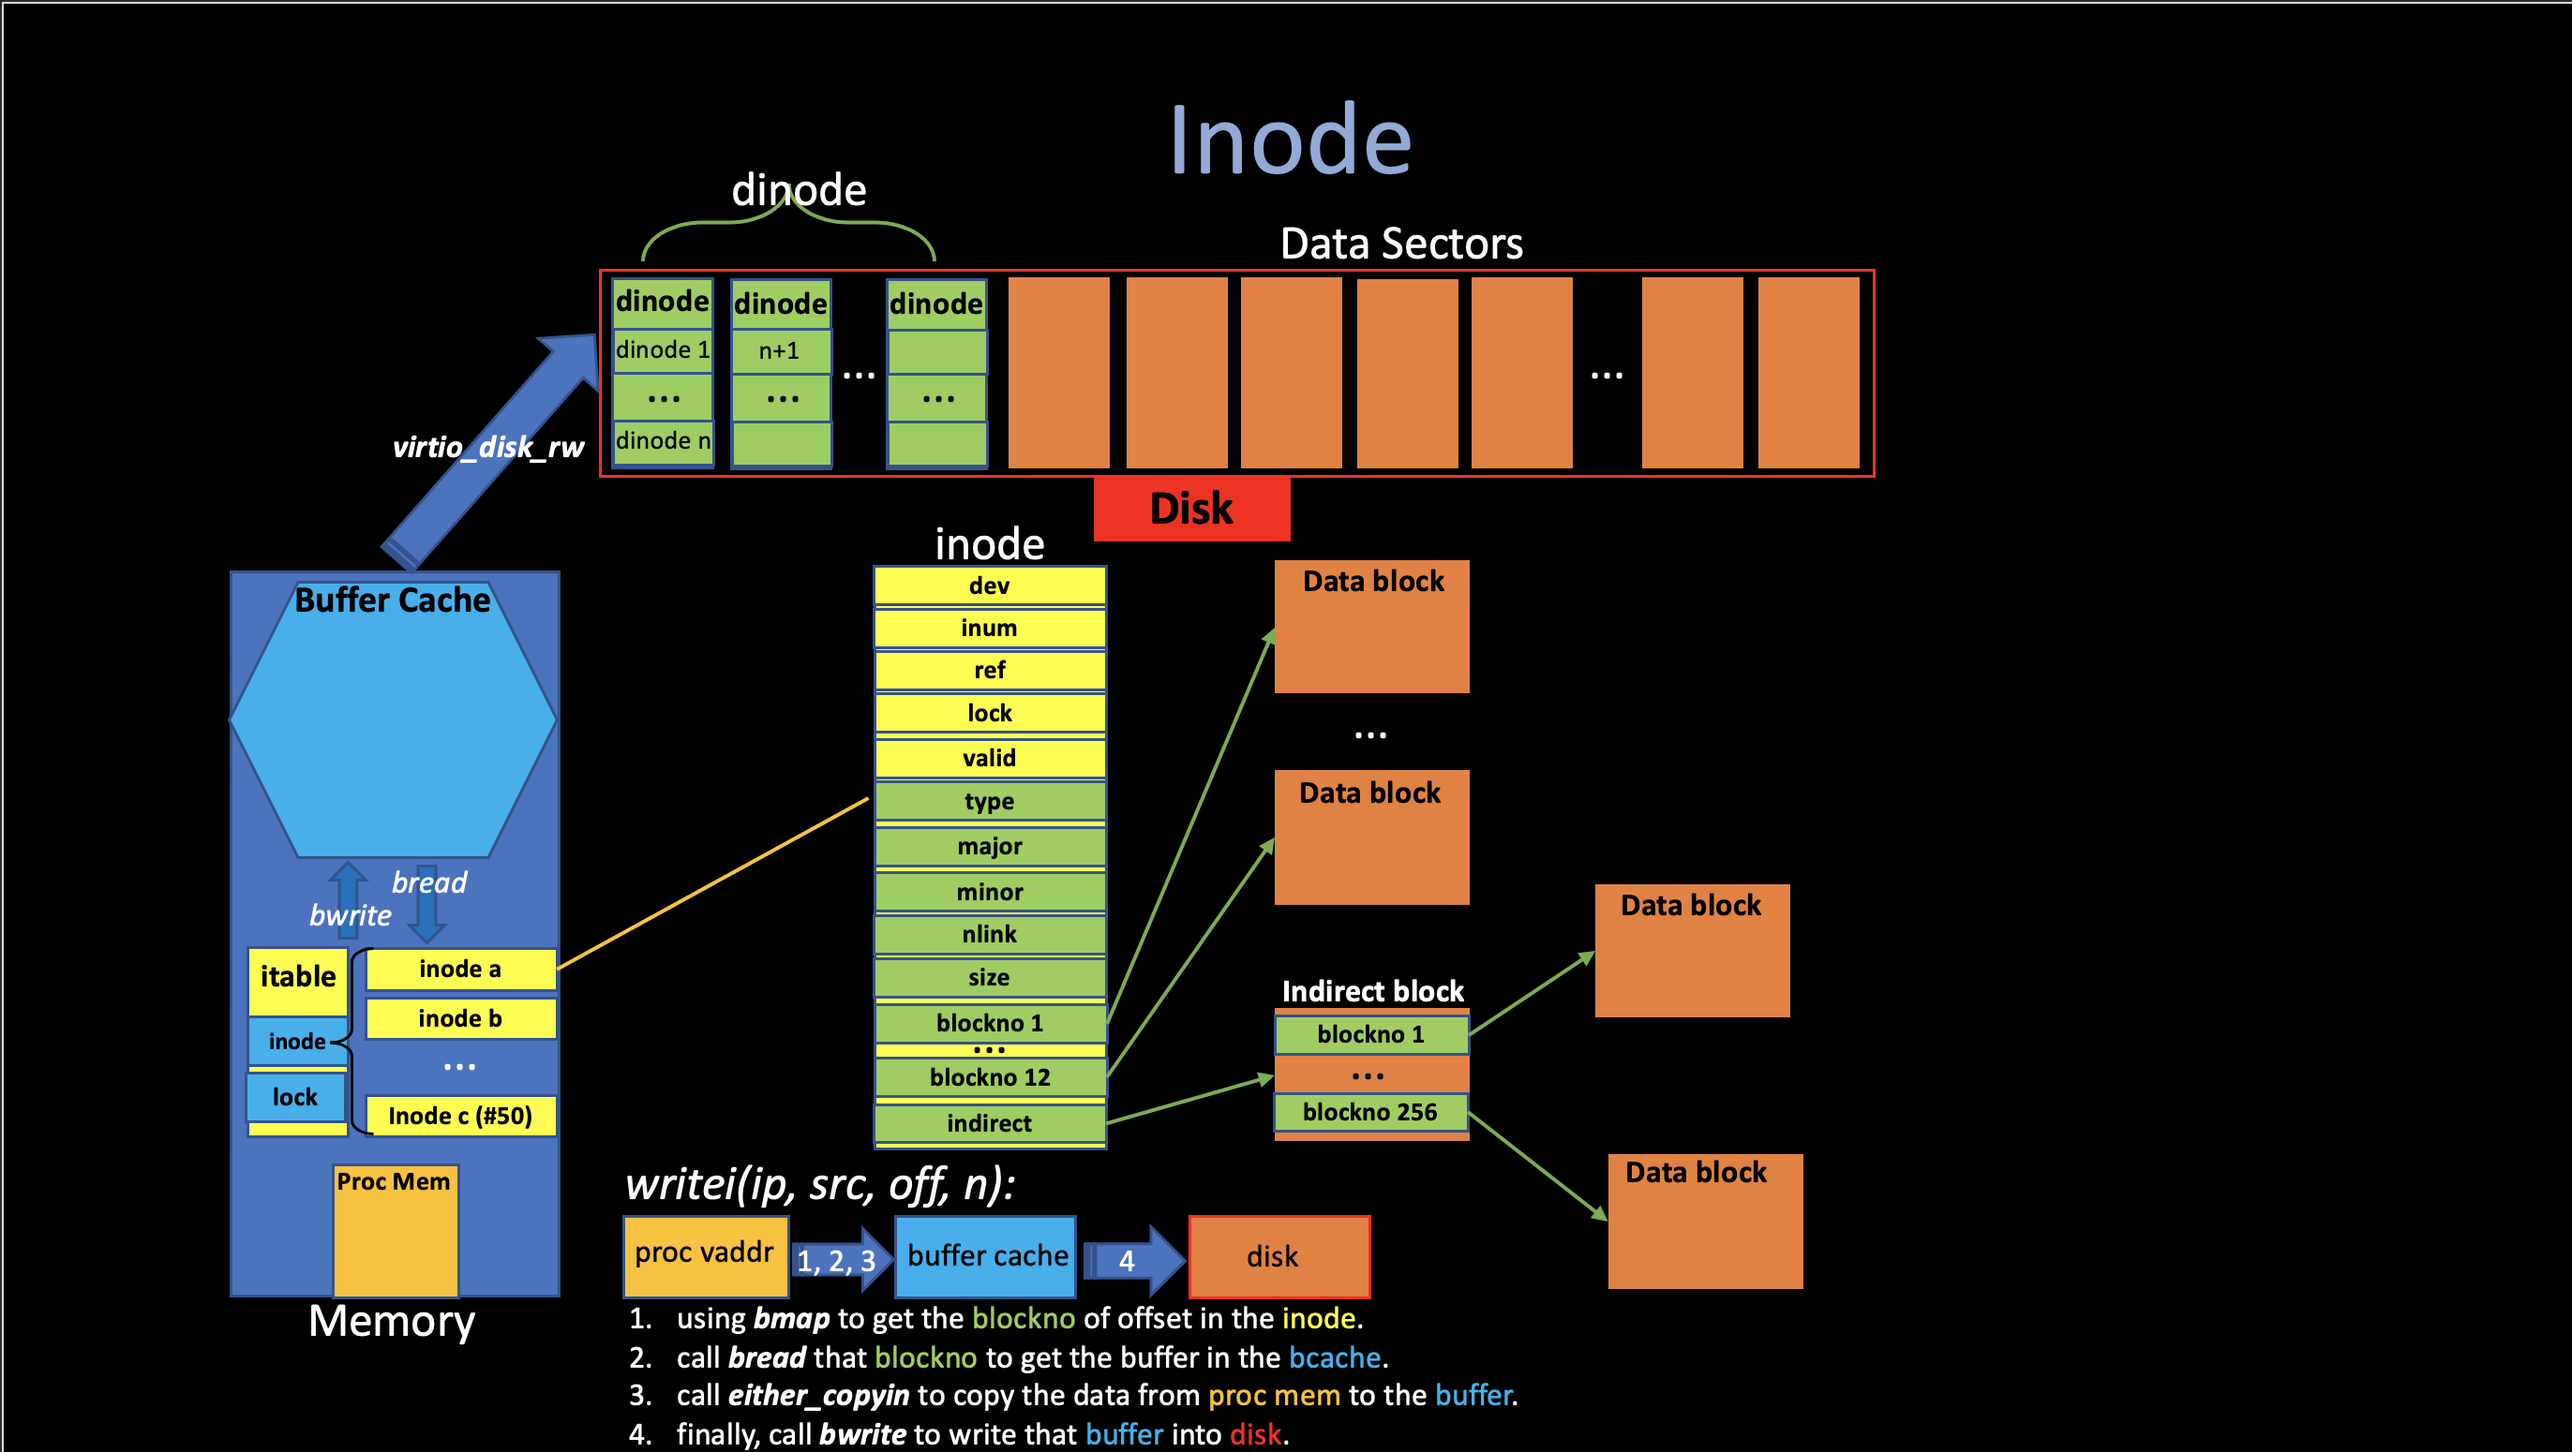
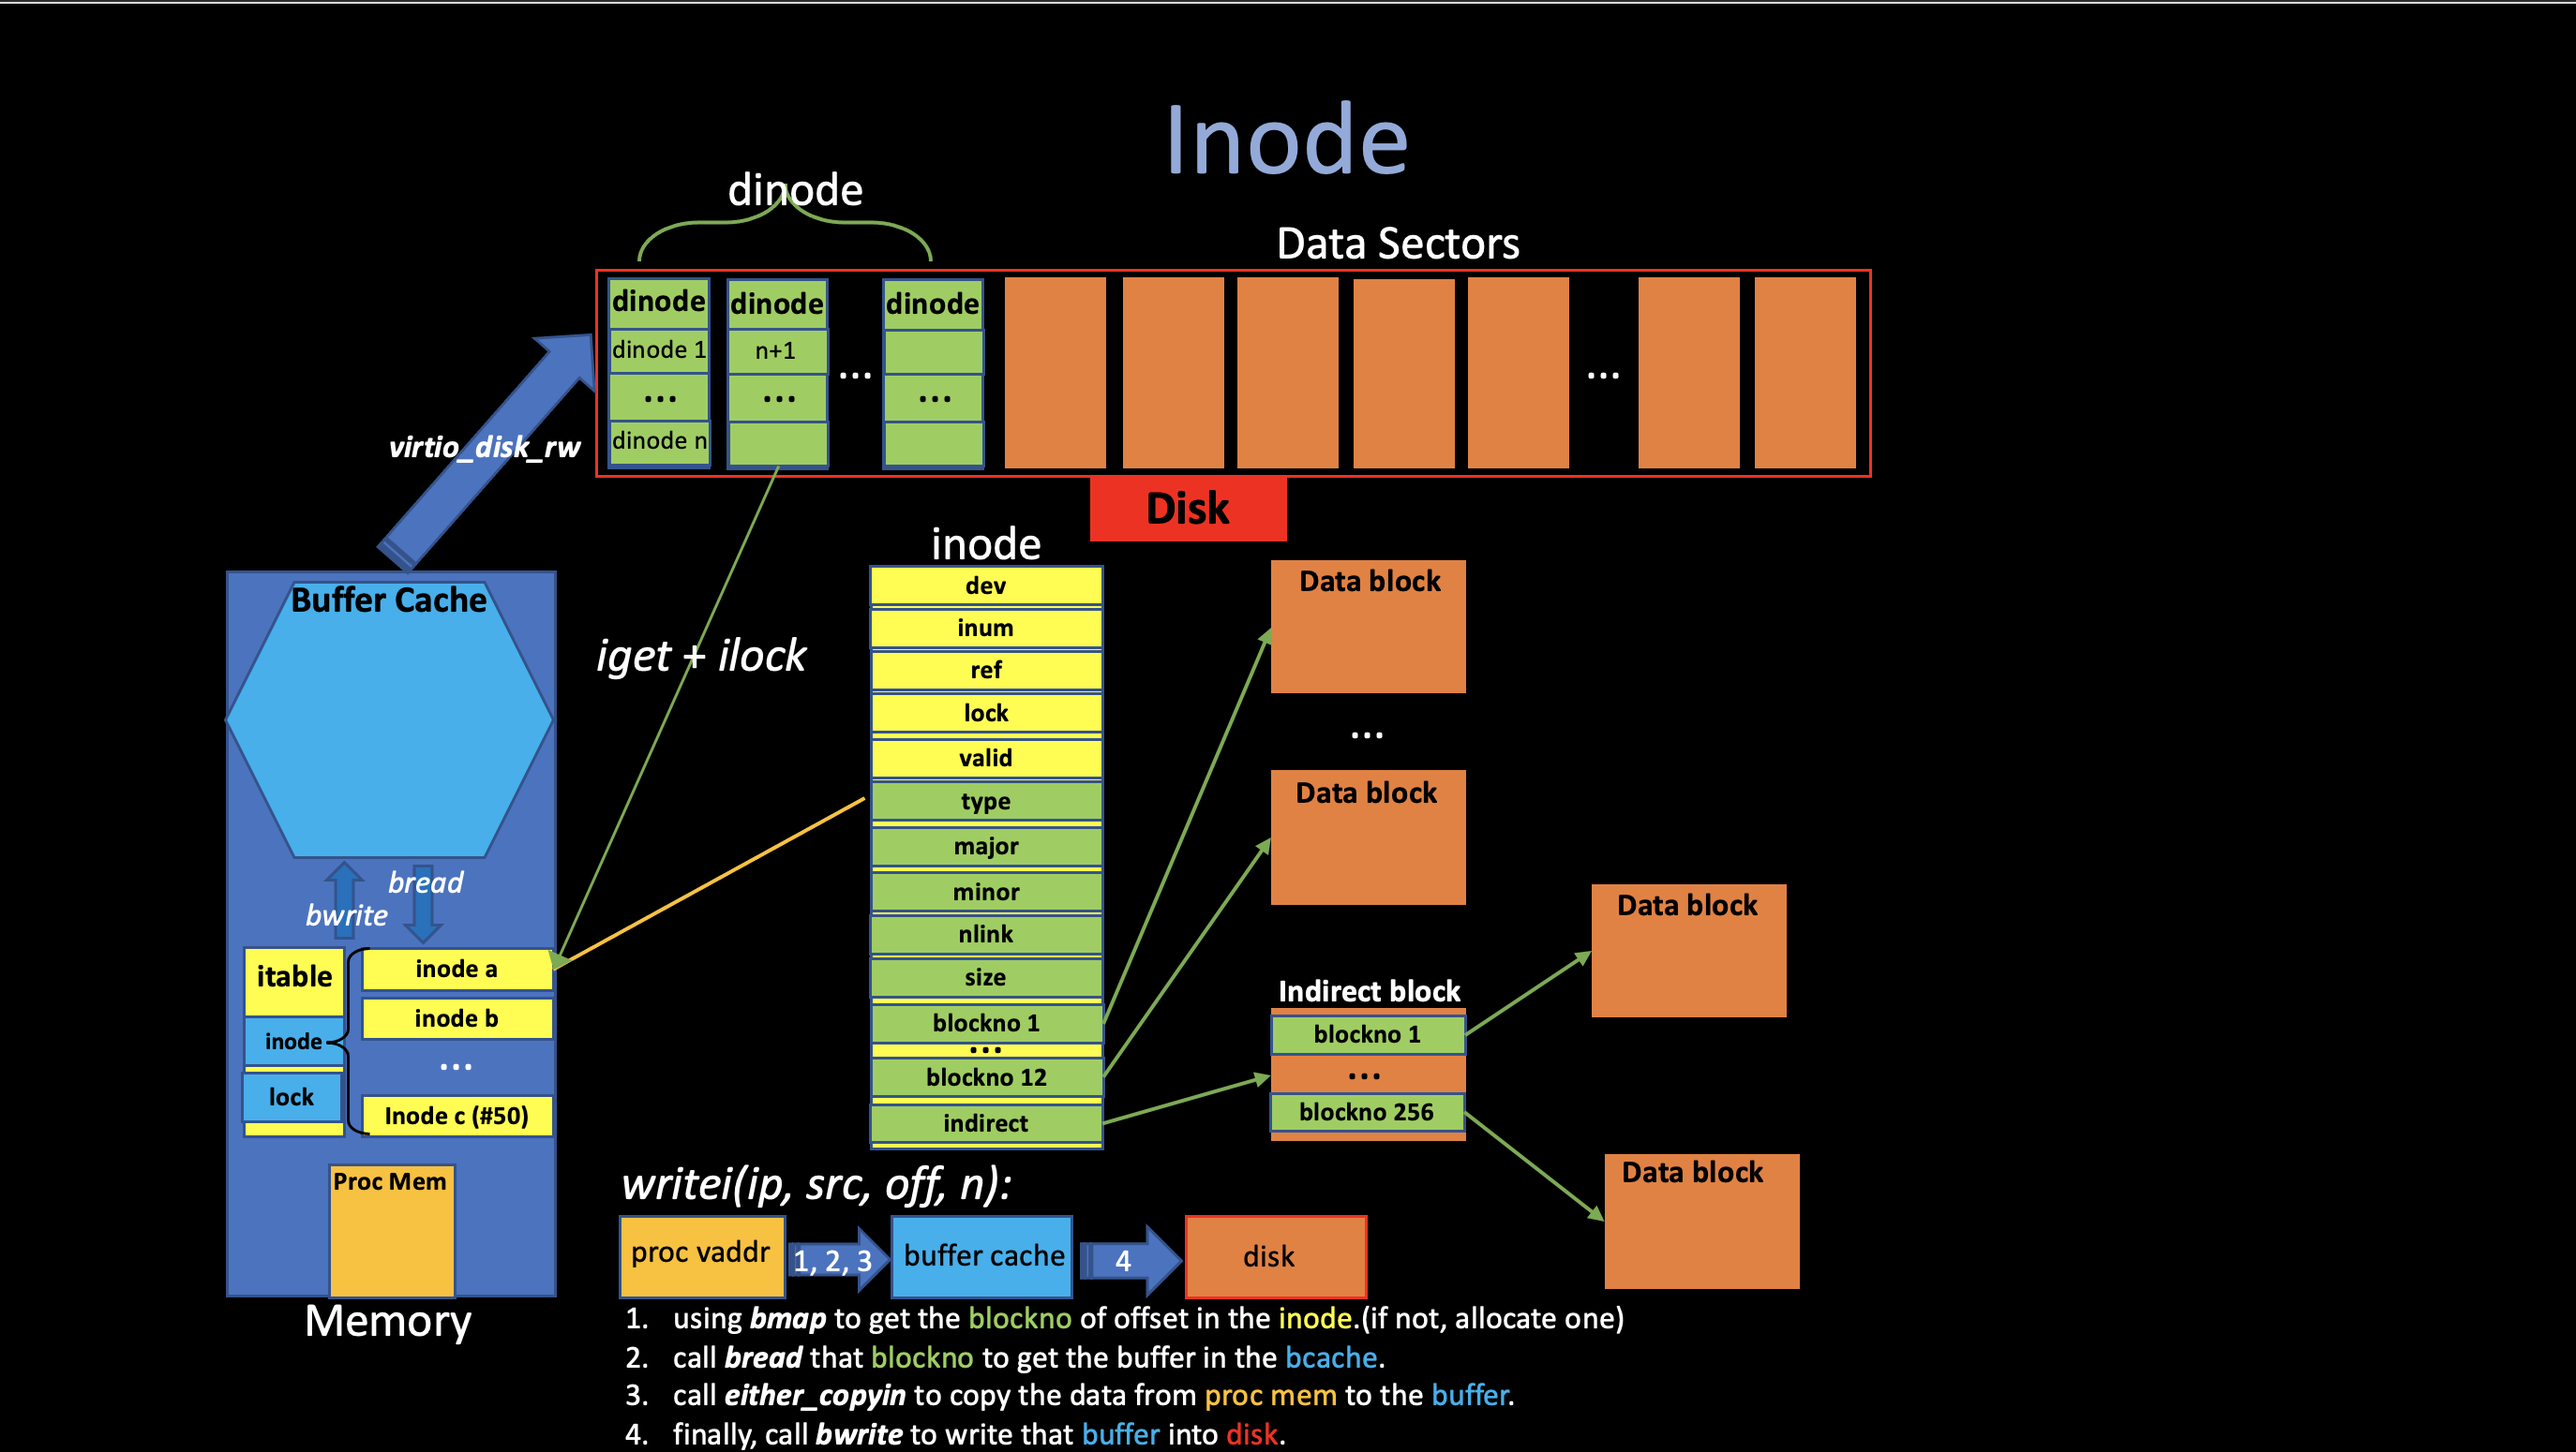
finish the inode part

diff --git a/docs/lectures/7FSii.md b/docs/lectures/7FSii.md
@@ -72,11 +72,10 @@ log write block: 33  // by iupdate: update inode
 
 #### 1. Inode Design
 
-The term *inode* stands for two things in Xv6:
+The term *inode* stands for two things in xv6:
 * **On-disk datastructure** containing a file's size and list of data block numbers
 * **In-memory copy of this disk inode in the inode table** contains extra informantion needed within the kernel.
 
-The on-disk inodes are packed into a contiguous area of disk called the **inode blocks**. Just like block, every inode is in the same size
 
 ##### Disk Inode `dinode`
 ```c
@@ -92,6 +91,17 @@ struct dinode {
 };
 
 ```
+The on-disk inodes are packed into a contiguous area of disk called the **inode blocks**. Just like block, every inode is in the same size, so it is easy, given a number n, to find the nth node on the disk. And this number n, called the inode number of i-number (`inum`).
+
+This on-disk inode structure, **`dinode`**, contains a size and an array of block numbers. (the green part of the following figure). The inode data is found in block listed in the **`dinode`**'s' **`addr`** array, and every elements of this array is a **`blockno`** referring to a block in the disk.
+
+* The first `NDIRECT` blocks of data are listed in the first `NDIRECT` entries in the array, called **direct blocks**.
+    * size of the direct blocks: **`12`** `(NDIRECT)` `*` **`1024`** `(BSIZE) = ` **`12KB`**.   
+* The next `NINDIRECT` blocks of data are listed in the last entry in the **`addrs`** array are address of the **indirect blocks.**
+    * size of the indirect blocks: **`1024 / 4`** `(BSIZE / sizeof(uint) *` **`1024`** `(BSIZE) = ` **`256KB`**.
+* **So the Maximum size of a file in xv6 is `12KB + 256KB = 268KB`**.
+
+![inode](Sources/inode.png)
 
 ##### In-memory Inode `inode`
 ```c
@@ -114,6 +124,11 @@ struct inode {
 };
 ```
 
+The **`inode`** is the in-memory copy of the **`dinode`** on disk with some extra attributes for **File Systems** to manipulate them:
+* **The `inum` record the inode number of that inode in order to read/write them to/from disk.**
+* **`ref` field counts the number of C pointers referring this in-memory inode.**
+
+
 ##### Inode Table `itable`
 ```c
 // kernel/fs.c
@@ -123,10 +138,40 @@ struct {
 } itable;
 ```
 
+**An inode describes a single file or directory, the kernel keeps a table in-use inodes in memory called `itable` to provide a place for synchronization access.** (also cache frequently-used inodes) The kernel stores an inode in memory only if **there are C pointers referring to that inode. (`open`)**.
 
-![inode](Sources/inode.png)
+
+#### 2. Inode Implementation
+There are several api functions in the Inode layer, although xv6 uses very straightforward but non-efficient algorithms in the most part of its implementation, it is still quite hard to understand all of them with a simple description of each of them.
+
+The following figure shows the all procedures related to inode when a user process make a **write** system call.
+
+![syswrite](Sources/syswrite.png)
+
+There are many functions related to the inode, all of them are in **`kernel/fs.c`**. If you are trying to understand the actual implementation, I highly recommend you to read the source code, just like I said before, it is pretty straightforward. There are three functions worth mentioning:**`bmap`**,  **`ilock`** and **`iput`**.
+
+##### `bmap(ip, f->off/BSIZE)`: returns the blockno of specific offset of inode `ip`.
+The function **`bmap`** manage the complexity of blocks representation in **`inode.addr[]`** so that higher-level routines, such as **`readi`** and **`writei`**, do not need to deal with this complexity. **`bmap(ip, bn)`** returns the disk block number of the **`bn`**'th data block for the inode **`ip`**. If **`ip`** does not have such a block yet, **`bmap`** allocates one.
+
+> **Bigfile**: Note that in the current xv6 implementation, the files are limited to *268KB*, this limit comes from the fact that an xv6 inode contains 12 "direct" block number and one "singly-indirect" block number, which refers to a block that holds up to 256 more block numbers. If we want to increase the maximum size of an xv6 file, like adding a "double-indirect" block in each inode, containing 256 addresses of singly-indirect blocks, each of which can contain up to 256 addresses of
+data blocks. The result will be consist of up to (`256*256 + 11 + 256`) **65803** blocks, We can do this by changing this **`bmap`** function to make it support **double indirection**, you can see a implementation here: **[bigfile](https://github.com/Angold-4/6s081labs/pull/6/commits/921a16e0e8276473e5b9f02c85cc541df2ccca0d)**.
 
 
+##### `ilock(ip)`: lock the given inode and reads the inode from disk.
+Typically, the **lock** is used to prevent some harzards come from synchronization access of shared data, which make sure that at any time, only one process that holding the lock can change that the protected data.
+
+But too much locking especially locking for too long may also cause many problems such as **deadlock.** In the **1. buffer cache** part, I said the way to prevent multiple kernel thread use that copy of disk block is everytime when **`bwrite`** wants to write something to the disk, it should always call **`bread`**, and **`bread`** will call **`bget`** to return a locked buffer in the buffer cache, after writes finished, it will call **`brelse`** to release that buffer lock.
+
+And the situation is a little bit different here: If you want to write something to a file (i.e., calling **`file_write`**), you always need to first open that file (`sys_open`) and you cannot hold the lock when open it because you don't know when you gonna write something to it. So when you call **`iget`** in order to get a entry in the global inode table (**`itable`**), you cannot hold the lock of that inode because you don't know when to release it. If you keep holding it, it may causes **deadlock** and **races** when you do some operations like directory lookup, etc.
+
+The xv6 prevent this from happening by seperating the **`ilock`** and **`iget`** so that the system call can get **a long-term reference to an inode (as for an open file), and only lock it for a short period when needed (e.g., in `read()`)**. And **`iget`** only increments the `ip->ref` so that the inode stays in the table and pointers to it remain valid.
+
+![ilock](Sources/ilock.png)
+
+Worth mentioning that another thing **`ilock`** will do is read the inode data from the disk **`dinode`**, that is because we do not keep holding that **`ip.lock`** before and this inode may have changed by another process and we have to get those changes from disk.
+
+##### `iput(ip)`: drop a reference to an in-memory inode and free it (also its content) in disk if ref goes 0.
+**`iput`** releases a C pointer to an inode and that the inode has no links to it **(i.e., no directory has link to it)**, if this is the last reference, then the inode and its data blocks must be freed. **`iput`** calls **`itrunc`** to truncatre the file to zero bytes, freeing the data blocks; sets the inode type to 0 (unallocated); and writes the inode to disk.
 
 ### iii. Directory
 
